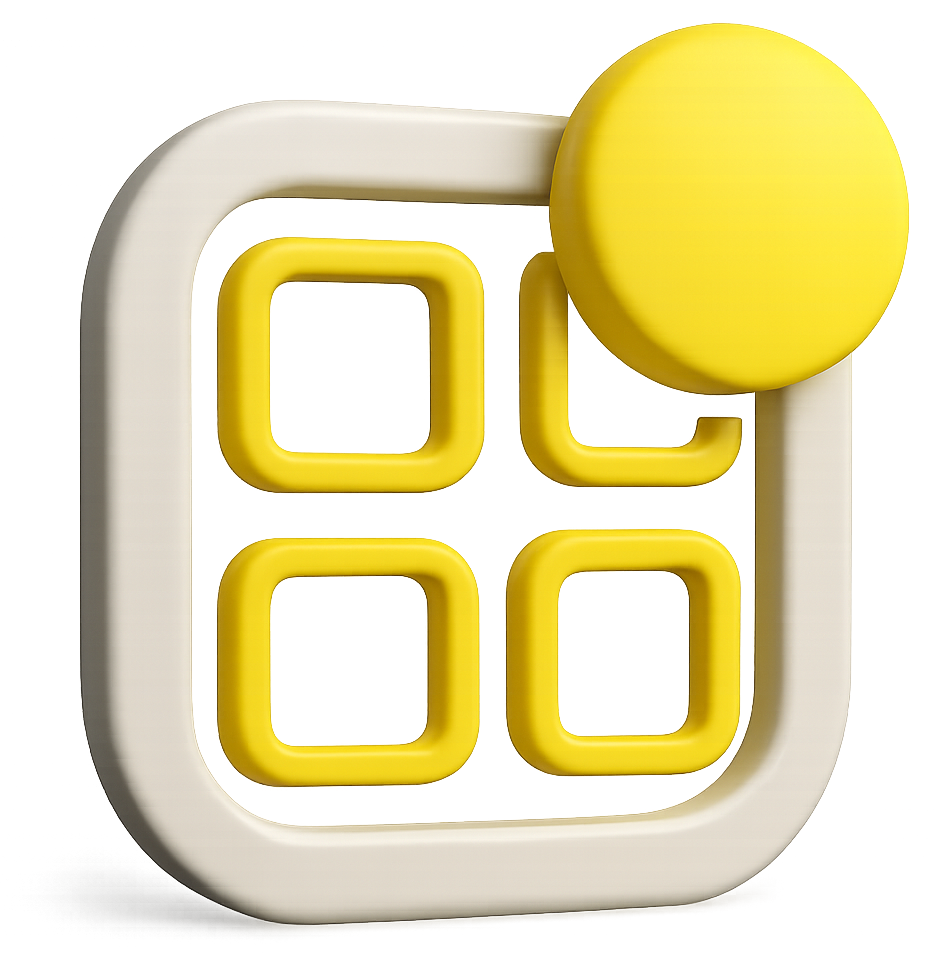
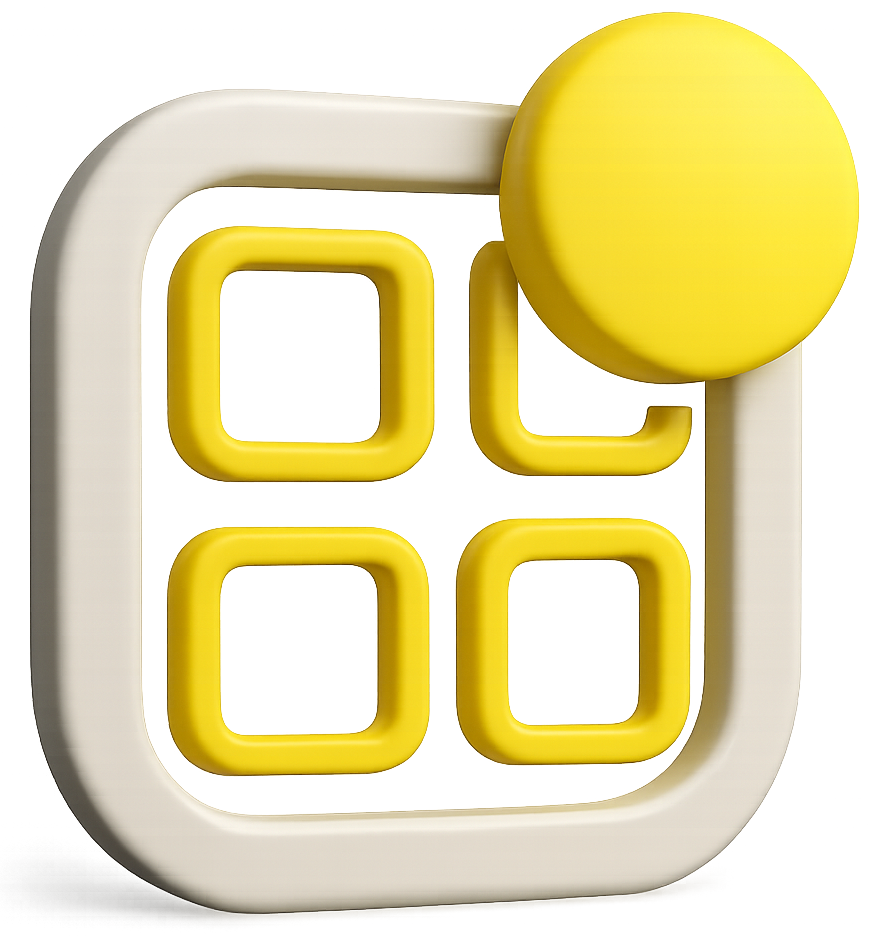
change image to 3D

diff --git a/components/TitleSidebar.js b/components/TitleSidebar.js
@@ -2,7 +2,7 @@ import Image from 'next/image';
 
 export default function TitleSidebar({ collapsed }) {
   return (
-    <div className={`flex items-center ${collapsed ? 'justify-center' : 'justify-between'} gap-2 mb-8 mt-12 md:mb-8 md:mt-0 px-4`}>
+    <div className={`flex items-center ${collapsed ? 'justify-center px-2' : 'justify-between px-6'} gap-2 mb-8 mt-12 md:mb-8 md:mt-0`}>
       {!collapsed && <h1 className="clash-title text-xl font-bold">Free Stack</h1>}
       <Image 
         src="/StackHub_3D.png" 
